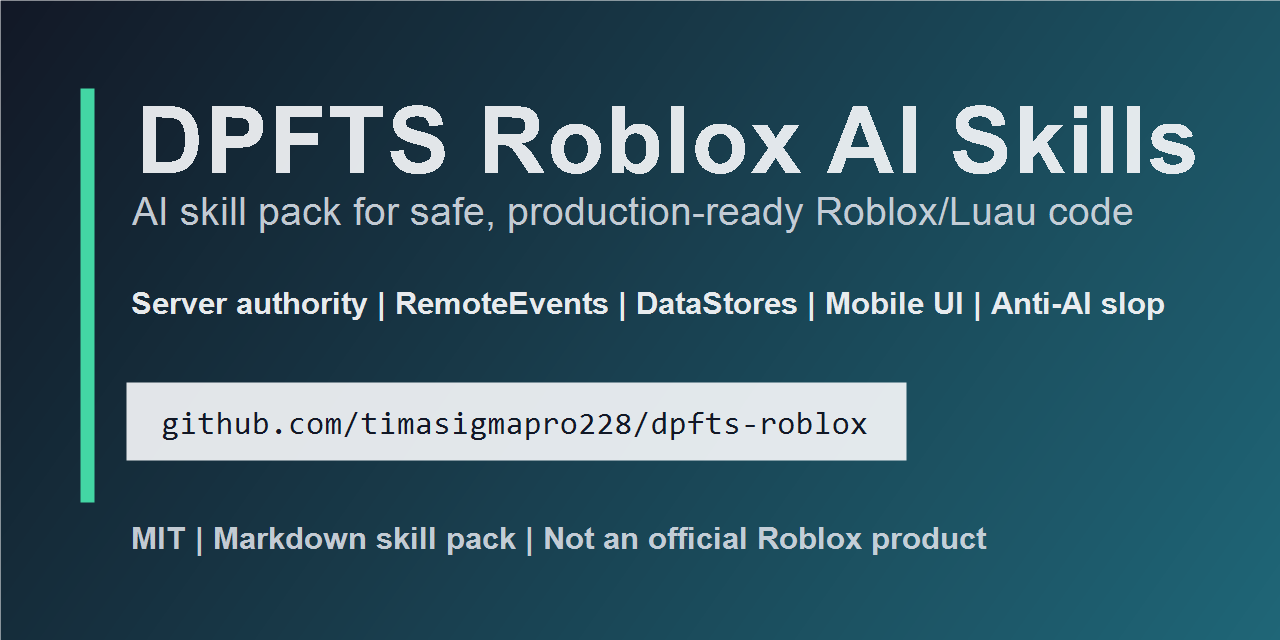
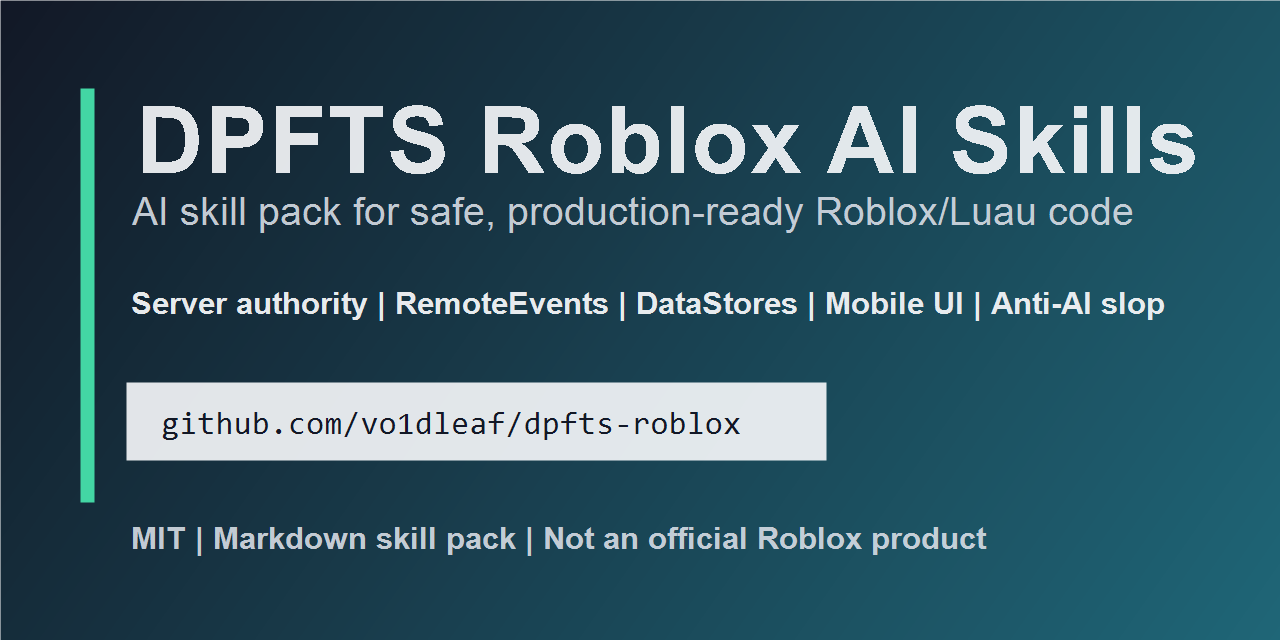
docs: update repository owner to vo1dleaf

Changed region(s): [[0.2812, 0.5938, 0.7188, 0.7188]]

diff --git a/CHANGELOG.md b/CHANGELOG.md
@@ -2,6 +2,14 @@
 
 DPFTS uses practical version notes, not corporate fog. Dates are UTC release dates when the version was published on GitHub.
 
+## v1.0.7 - 2026-05-29
+
+Repository identity patch.
+
+- Updated README clone URLs from the old GitHub username to `vo1dleaf`.
+- Regenerated `assets/banner.png` with the new `github.com/vo1dleaf/dpfts-roblox` path.
+- Updated the local git remote to the renamed account URL.
+
 ## v1.0.6 - 2026-05-28
 
 Install trust patch.

diff --git a/README.md b/README.md
@@ -31,13 +31,13 @@ Install DPFTS as a local Codex skill.
 Windows PowerShell:
 
 ```powershell
-git clone https://github.com/timasigmapro228/dpfts-roblox.git "$env:USERPROFILE\.codex\skills\dpfts"
+git clone https://github.com/vo1dleaf/dpfts-roblox.git "$env:USERPROFILE\.codex\skills\dpfts"
 ```
 
 macOS/Linux:
 
 ```bash
-git clone https://github.com/timasigmapro228/dpfts-roblox.git ~/.codex/skills/dpfts
+git clone https://github.com/vo1dleaf/dpfts-roblox.git ~/.codex/skills/dpfts
 ```
 
 Then restart Codex and ask:
@@ -59,13 +59,13 @@ Install DPFTS as a Claude Code skill.
 Windows PowerShell:
 
 ```powershell
-git clone https://github.com/timasigmapro228/dpfts-roblox.git "$env:USERPROFILE\.claude\skills\dpfts"
+git clone https://github.com/vo1dleaf/dpfts-roblox.git "$env:USERPROFILE\.claude\skills\dpfts"
 ```
 
 macOS/Linux:
 
 ```bash
-git clone https://github.com/timasigmapro228/dpfts-roblox.git ~/.claude/skills/dpfts
+git clone https://github.com/vo1dleaf/dpfts-roblox.git ~/.claude/skills/dpfts
 ```
 
 Then restart Claude Code and ask: